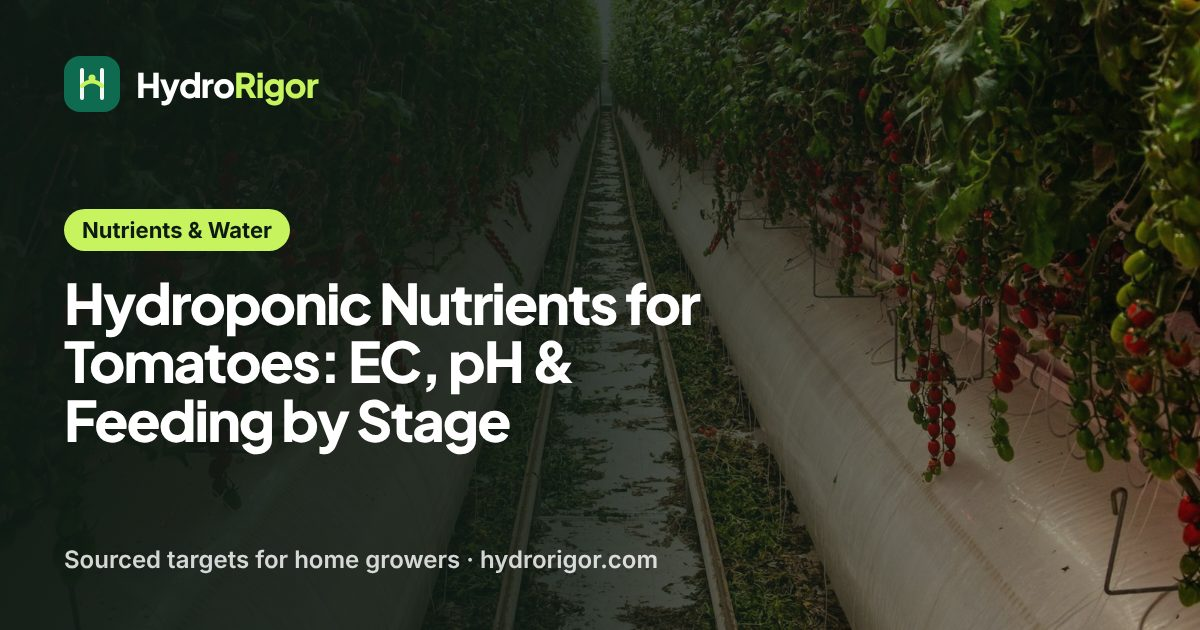
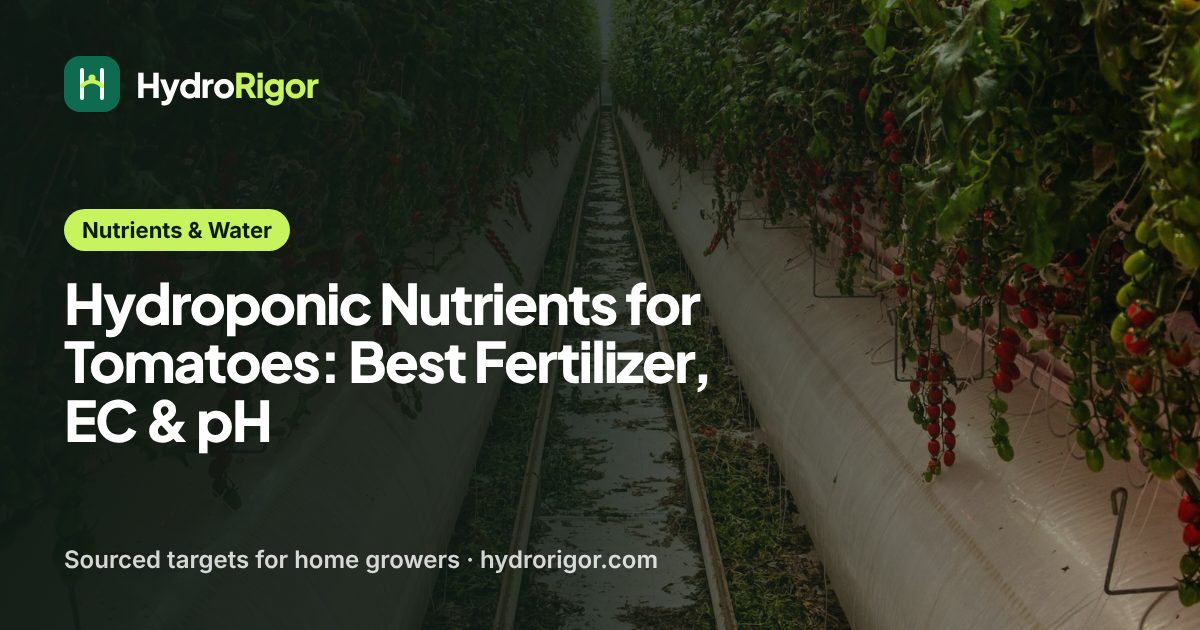
Tomato nutrients guide: best-fertilizer answer, label checks, 4-18-38 rates (#135)
Strengthening pass for queue item 24 (Search Console: 44 impressions,
position 20.0). New title "Hydroponic Nutrients for Tomatoes: Best
Fertilizer, EC & pH", answer-first intro, fertilizer format table and
label-check diagram, Masterblend 4-18-38 rates with label arithmetic,
FloraSeries EC against tomato targets, two troubleshooting rows, links
to 15 guides and tools. Byline to HydroRigor Editorial pending review.

Claude-Session: https://claude.ai/code/session_011zSWQwQTG1Bybt8cvw3EQp

Changed region(s): [[0.0617, 0.5429, 0.5858, 0.7238]]

diff --git a/src/data/m06-content.ts b/src/data/m06-content.ts
@@ -36,7 +36,7 @@ const items = [
   [16, 'articles', 'best', 'Best Hydroponic Nutrients: How to Choose by Crop & Type', 'hydroponic-nutrients-for-home-growers', 'commercial research', 'best hydroponic nutrients', 'METRIC_NOT_REVERIFIED', undefined, undefined, ['psu-nutrient-programs', 'psu-plant-nutrition', 'mu-nutrient-solutions', 'osu-ph-ec-guide', 'purdue-fertilizer-mixing-tips', 'unr-flora-leafy-greens-2014', 'tennessee-fruiting-crops', 'uky-hydroponic-lettuce', 'purdue-lettuce-ec-ho309', 'ohio-state-tomato-nutrient-solution', 'msstate-fluid-fertilizers', 'masterblend-mixing-instructions', 'gh-floraseries-program', 'psu-organic-nutrient-study', 'liu-organic-nft-lettuce-2025', 'unl-lunchbox-hydroponics', 'msu-calibrate-ph-ec'], ['/tools/nutrient-mixing-calculator/', '/tools/ph-ec-targets/']],
   [17, 'articles', 'nutrients', 'Powder vs Liquid Hydroponic Nutrients: Mixing, Storage & EC', 'powder-vs-liquid-hydroponic-nutrients', 'commercial research', 'hydroponic nutrients powder', 'METRIC_NOT_REVERIFIED', undefined, undefined, ['msstate-fluid-fertilizers', 'purdue-fertilizer-mixing-tips', 'psu-nutrient-programs', 'mu-nutrient-solutions', 'ohio-state-tomato-nutrient-solution', 'masterblend-mixing-instructions', 'gh-floraseries-program', 'osu-ph-ec-guide', 'ifas-lettuce-small-systems', 'tennessee-fruiting-crops', 'msu-calibrate-ph-ec'], ['/tools/nutrient-mixing-calculator/']],
   [18, 'articles', 'nutrients', 'Hydroponic Nutrients for Vegetables: EC & pH by Crop', 'hydroponic-nutrients-for-vegetables', 'transactional research', 'hydroponic nutrients vegetables', 'METRIC_NOT_REVERIFIED', undefined, undefined, ['osu-ph-ec-guide', 'tennessee-fruiting-crops', 'mu-nutrient-solutions', 'psu-plant-nutrition', 'psu-nutrient-programs', 'uky-hydroponic-lettuce', 'ifas-lettuce-small-systems', 'ua-strawberry-irrigation', 'vt-system-crop-comparisons'], ['/tools/ph-ec-targets/', '/tools/nutrient-mixing-calculator/']],
-  [19, 'articles', 'nutrients', 'Hydroponic Nutrients for Tomatoes: EC, pH & Feeding by Stage', 'hydroponic-nutrients-for-tomatoes', 'informational', 'hydroponic tomatoes nutrient solution', 'VERIFIED_2026-09-12', 170, 18, ['ifas-hydroponic-tomato-formulation', 'tennessee-fruiting-crops', 'ohio-state-tomato-nutrient-solution', 'psu-nutrient-programs', 'osu-ph-ec-guide', 'uky-monitoring-ph-ec', 'msstate-tomato-ph', 'msstate-tomato-fertilizer', 'msstate-blossom-end-rot', 'ifas-volusia-dwc-bucket'], ['/tools/ph-ec-targets/', '/tools/nutrient-mixing-calculator/']],
+  [19, 'articles', 'nutrients', 'Hydroponic Nutrients for Tomatoes: Best Fertilizer, EC & pH', 'hydroponic-nutrients-for-tomatoes', 'informational', 'hydroponic tomatoes nutrient solution', 'VERIFIED_2026-09-12', 170, 18, ['ifas-hydroponic-tomato-formulation', 'tennessee-fruiting-crops', 'ohio-state-tomato-nutrient-solution', 'psu-nutrient-programs', 'osu-ph-ec-guide', 'uky-monitoring-ph-ec', 'msstate-tomato-ph', 'msstate-tomato-fertilizer', 'msstate-blossom-end-rot', 'ifas-volusia-dwc-bucket', 'psu-plant-nutrition', 'masterblend-mixing-instructions', 'masterblend-4-18-38-label', 'gh-floraseries-basic-feedcharts'], ['/tools/ph-ec-targets/', '/tools/nutrient-mixing-calculator/']],
   [20, 'articles', 'nutrients', 'How to Mix Hydroponic Nutrients: Order, Rates & EC Check', 'how-to-mix-hydroponic-nutrients', 'informational', 'mixing hydroponic nutrients', 'METRIC_NOT_REVERIFIED', undefined, undefined, ['mu-nutrient-solutions', 'psu-nutrient-programs', 'osu-ph-ec-guide', 'ohio-state-tomato-nutrient-solution', 'masterblend-mixing-instructions', 'gh-floraseries-program', 'ifas-lettuce-small-systems', 'purdue-lettuce-ec-ho309', 'tennessee-fruiting-crops', 'uky-hydroponic-lettuce', 'psu-plant-nutrition', 'msu-calibrate-ph-ec'], ['/tools/nutrient-mixing-calculator/', '/tools/ph-ec-targets/']],
   [21, 'reviews', 'reviews', 'Masterblend Hydroponic Nutrients: Rates per Gallon & Mixing', 'masterblend-hydroponic-nutrients', 'transactional research', 'masterblend hydroponic nutrients', 'METRIC_NOT_REVERIFIED', undefined, undefined, ['masterblend-mixing-instructions', 'masterblend-4-18-38-label', 'masterblend-hydroponics', 'ask-extension-masterblend', 'mu-sare-nutrient-solutions-class', 'psu-nutrient-programs', 'psu-plant-nutrition', 'ifas-hydroponic-tomato-formulation', 'ohio-state-tomato-nutrient-solution', 'osu-ph-ec-guide', 'mu-nutrient-solutions', 'tennessee-fruiting-crops', 'purdue-fertilizer-mixing-tips', 'ifas-kratky-set-and-forget', 'uky-hydroponic-lettuce', 'ifas-lettuce-small-systems'], ['/tools/nutrient-mixing-calculator/', '/tools/ph-ec-targets/']],
   [22, 'reviews', 'reviews', 'General Hydroponics Nutrients: Flora Feed Chart, EC & pH', 'general-hydroponics-nutrients', 'transactional research', 'general hydroponics hydroponic nutrients', 'METRIC_NOT_REVERIFIED', undefined, undefined, ['gh-floraseries-basic-feedcharts', 'gh-floraseries-program', 'gh-feedchart-usage-guide', 'gh-floramicro', 'gh-floragro', 'gh-florabloom', 'gh-floraseries', 'unr-flora-leafy-greens', 'osu-ph-ec-guide', 'tennessee-fruiting-crops', 'psu-nutrient-programs', 'mu-nutrient-solutions', 'masterblend-mixing-instructions'], ['/tools/nutrient-mixing-calculator/']],

diff --git a/.agent/state/CURRENT_HANDOFF.md b/.agent/state/CURRENT_HANDOFF.md
@@ -111,6 +111,7 @@ Updated: 2026-11-26
 Guides published by automated runs under `HydroRigor Editorial`. When Najeeb has read one
 and approves, switch its byline to `Najeeb`.
 
+- `/nutrients-water/hydroponic-nutrients-for-tomatoes/` — "Hydroponic Nutrients for Tomatoes: Best Fertilizer, EC & pH" (strengthening pass, 2026-11-26, Thursday afternoon scheduled run; title changed from "…EC, pH & Feeding by Stage" to match the "best hydroponic nutrients for tomatoes" and "hydroponic fertilizer tomatoes" queries; Pinterest row `docs/marketing/pinterest/pins-tomato-nutrients-2027-01-03.csv` to upload by Jan 3). Byline moved from Najeeb to HydroRigor Editorial because the text changed after his approval; switch it back once he has read it. Changes: first sentence answers "best fertilizer" (complete low-N, high-K tomato formula with calcium nitrate apart, Penn State and Mississippi State), new section with a format table (4-18-38 three-part, bottled lines, premixed, 20-20-20) and a four-check label diagram, Masterblend 4-18-38 per-gallon rates (2.4 / 1.5 / 2.4 g, half rate for seedlings) with our label arithmetic (full rate of the base ≈ 50 ppm P and 200 ppm K, marked as our arithmetic), FloraSeries bloom EC (Medium 1.6–1.9, Aggressive 1.9–2.4) compared with Tennessee's 2.0–3.0, two Penn State troubleshooting rows (iron chlorosis at high pH, salt burn), new links to Masterblend, Flora, organic, powder vs liquid, pH meter, reservoir size, nutrient solution, Dutch bucket, drip, DWC and peppers guides. Four registered sources added to the page (Penn State plant nutrition, Masterblend instructions and label, FloraSeries feedcharts). Please check that naming Masterblend and General Hydroponics as format examples (no links, no picks) is fine before any affiliate work.
 - `/crops/hydroponic-cilantro/` — "Hydroponic Cilantro: pH, EC, Light & Bolting Guide" (new guide, plan ID 49, 2026-11-25, Wednesday afternoon scheduled run; Pinterest row `docs/marketing/pinterest/pins-cilantro-2027-01-01.csv` to upload by Jan 1). Direct answer: pH 5.5–6.0 (Currey 2024; trial at 6.0), EC 1.2–2.0 (Virginia Tech SPES-463) with 0.5–4.0 giving equal yield (Currey et al. 2019), air 64–81 °F / 18–27 °C (OMAFRA), 8 in spacing, DLI 17–18 (+154% fresh mass vs DLI 7), 40–60 days (OMAFRA), cut at the base or 1.5–2 in (UC ANR 7236). Conflict shown: 16 h light for yield (Iowa State trial) vs 12 h or less to delay flowering (Michigan State, Lopez and Garcia 2021), with two lighting plans and our µmol arithmetic; bolting by day length (Tomitaka et al. 2001: buds at day 49 under 16 h vs 73 under 8 h, abstract only), heat (UC ANR, Oregon State, Utah State) and blue light (Kim et al. 2025, Horticulturae; tables not used). Soil-salinity sensitivity (UC ANR) noted against the hydroponic EC result. Seven new sources read 2026-11-25 through a fetch tool; Johnny's Selected Seeds page left out (cilantro section only reached through a summary). Gaps stated: no Kratky cilantro data, no measured regrowth, no succession interval in any source (the page's every-3-weeks sowing is labelled as our schedule). Two diagrams (light plans; seed-to-harvest timeline). Photo reuses `systems-home-nft-lights`; a real cilantro photo is wanted. Linked from the herbs guide (cilantro row).
 - `/crops/hydroponic-green-onions/` — "Hydroponic Green Onions: pH, Spacing, Regrowth & Harvest" (new guide, plan ID 48, 2026-11-25, owner-requested run after the spinach run; Pinterest row `docs/marketing/pinterest/pins-green-onions-2026-12-31.csv` to upload by Dec 31). Evidence is thin and the page says so: solution pH 6.5 beat 5.8 and half-strength Hoagland's was preferred (Kane et al. 2006, J. Plant Nutrition, abstract via AGRIS); 50–100% solution strength beat 125% (Santos et al. 2021, abstract via AGRIS); Yamazaki's solution best for young Welsh onion water culture (Won et al. 2005, abstract only). No source gives an EC: the page suggests the low end of Oklahoma State's lettuce range (1.2–1.8) and labels it as an inference. Germination 16–24 °C (BC production guide) and 60–85 °F, growth 60–65 °F day / 55–60 °F night, 7–9 seeds per cell, harvest standard and 4 oz bunches (SARE 2025); first cut at 6 in and regrowth (Oregon State, Spanish-language page); 60–80 days and 2–3 in spacing (UC Master Gardeners Santa Clara); regrowth in water (UC Master Gardeners Riverside, which itself cites popular sites); full sun (Minnesota); white LED gave the heaviest Welsh onion at 300 µmol/m²/s (Gao et al. 2020, Table 1; methods only summarized). Light hours borrowed from Iowa State's chives advice. Ten new sources. Two diagrams (feeding findings; seed vs scraps routes). Photo reuses `dwc-net-pot-roots`; a real green onion photo is wanted. Linked from the herbs guide (chives row). Worth an owner read: the full texts of the three trials were not opened, so a full-text read could add EC and day counts.
 - `/crops/hydroponic-kale/` — "Hydroponic Kale: pH, EC, Light & Harvest Guide" (new guide, plan ID 47, 2026-11-25, owner-started session; Pinterest row `docs/marketing/pinterest/pins-hydroponic-kale-2026-12-29.csv`, Dec 29 so it does not clash with the morning run's spinach Pin). Direct answer, KeyTargets, EC conflict table (Ohio State 2024 rose to 2.1; Iowa State 2021 no effect 0.5–5.0; Wortman 2015 −76% at aquaponic EC/pH), pH (Arizona State poster), light and temperature, oxygen (UGA 2025: air stone enough), DWC steps, harvest method (UGA, NC State, Oregon State), troubleshooting, FAQ; two diagrams (targets card, harvest timeline). Photo gap: no kale photo in the registry, so it uses `red-veined-chard` (alt text says chard); replace with a kale photo when one is added.

diff --git a/.agent/state/CURRENT_MILESTONE.md b/.agent/state/CURRENT_MILESTONE.md
@@ -109,7 +109,7 @@ impressions in 28 days).
 Moved to the top on 2026-11-26 by the daily Search Console check (rule: position 8–20 with 30+
 impressions in 28 days).
 
-24. [ ] `/nutrients-water/hydroponic-nutrients-for-tomatoes/` — strengthening pass (rebuilt 2026-11-06,
+24. [x] `/nutrients-water/hydroponic-nutrients-for-tomatoes/` — strengthening pass done 2026-11-26 ("Hydroponic Nutrients for Tomatoes: Best Fertilizer, EC & pH": answer leads with the best fertilizer format, new "Best hydroponic fertilizer for tomatoes" section with a format table, label-check diagram, 4-18-38 rates and label arithmetic, FloraSeries EC compared with tomato targets, two new troubleshooting rows, links to 15 guides and tools, about 2,480 words). Was: strengthening pass (rebuilt 2026-11-06,
         "Hydroponic Nutrients for Tomatoes: EC, pH & Feeding by Stage"): clearer direct answer, intent
         match for the tomato-fertilizer queries it shows for ("best hydroponic nutrients for tomatoes"
         3 impressions at 62.3, "hydroponic fertilizer tomatoes" 2 at 63.0, "tomato hydroponic nutrients"
